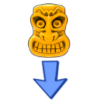
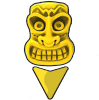
v0.184.5 - Indicador del totem mejorado
tanto el sprte como que no indique en la animacion del inicio

diff --git a/src/Facade/Render/RenderFacadeClover.cpp b/src/Facade/Render/RenderFacadeClover.cpp
@@ -1442,7 +1442,7 @@ void RenderFacadeClover::FacadeDraw() const{
 
 }
 
-void RenderFacadeClover::FacadeDrawHUD(Entity* car, ManCar* manCars, Entity* globalClock, ManHUDEvent* manHud, ManGameRules* manGR) {
+void RenderFacadeClover::FacadeDrawHUD(Entity* car, ManCar* manCars, Entity* globalClock, ManHUDEvent* manHud, ManGameRules* manGR, bool ingame) {
 
     if (!inputShowHUD) { return; }
 
@@ -1483,27 +1483,31 @@ void RenderFacadeClover::FacadeDrawHUD(Entity* car, ManCar* manCars, Entity* glo
     //                        //
     // *         *          * //
     ////////////////////////////
-    auto anchoSpriteTotem = 100.0;
-    auto altoSpriteTotem = 100.0;
-    auto posRefY = h/2 - (altoSpriteTotem/2);
-    auto frustum_ = device->GetActiveCamera()->GetFrustum();
-    bool backTotem  = frustum_.IsOutBack(manGR->GetPosTotem());
-    bool leftTotem  = frustum_.IsOutLeft(manGR->GetPosTotem());
-    bool rightTotem = frustum_.IsOutRight(manGR->GetPosTotem());
-
-    if(backTotem){
-        if(leftTotem && !rightTotem)
-            device->DrawImage2D(50, posRefY, 1.f, 0.1f, "media/hudTotemLeft.png", true);
-        else if(rightTotem && !leftTotem)
-            device->DrawImage2D( (w-50.0f) - anchoSpriteTotem, posRefY , 1.f, 0.1f, "media/hudTotemRight.png", true);
-        else
-            device->DrawImage2D(w/2 - (anchoSpriteTotem/2) , h - 50 - altoSpriteTotem, 1.f, 0.1f, "media/hudTotemBack.png", true);
-    }else{
-        if(leftTotem)
-            device->DrawImage2D(50, posRefY, 1.f, 0.1f, "media/hudTotemLeft.png", true);
-        else if(rightTotem)
-            device->DrawImage2D( (w-50.0f) - anchoSpriteTotem, posRefY , 1.f, 0.1f, "media/hudTotemRight.png", true);
+    if(ingame){
+        auto anchoSpriteTotem = 100.0;
+        auto altoSpriteTotem = 100.0;
+        auto posRefY = h/2 - (altoSpriteTotem/2);
+        auto frustum_ = device->GetActiveCamera()->GetFrustum();
+        bool backTotem  = frustum_.IsOutBack(manGR->GetPosTotem());
+        bool leftTotem  = frustum_.IsOutLeft(manGR->GetPosTotem());
+        bool rightTotem = frustum_.IsOutRight(manGR->GetPosTotem());
+    
+        if(backTotem){
+            if(leftTotem && !rightTotem)
+                device->DrawImage2D(50, posRefY, 1.f, 0.1f, "media/hudTotemLeft.png", true);
+            else if(rightTotem && !leftTotem)
+                device->DrawImage2D( (w-50.0f) - anchoSpriteTotem, posRefY , 1.f, 0.1f, "media/hudTotemRight.png", true);
+            else
+                device->DrawImage2D(w/2 - (anchoSpriteTotem/2) , h - 50 - altoSpriteTotem, 1.f, 0.1f, "media/hudTotemBack.png", true);
+        }else{
+            if(leftTotem)
+                device->DrawImage2D(50, posRefY, 1.f, 0.1f, "media/hudTotemLeft.png", true);
+            else if(rightTotem)
+                device->DrawImage2D( (w-50.0f) - anchoSpriteTotem, posRefY , 1.f, 0.1f, "media/hudTotemRight.png", true);
+        }
     }
+
+
 
     //CURRENT POWERUP
     if(!powerUpAnimation->GetFinished() && currentPowerUp != 0){

diff --git a/src/State/StateInGame.cpp b/src/State/StateInGame.cpp
@@ -468,7 +468,12 @@ void StateInGame::Render() {
     
     auto showHUD = renderEngine->FacadeCheckShowHUD();
     if (showHUD) {
-        renderEngine->FacadeDrawHUD(manCars->GetCar().get(), manCars.get(), manGameRules->GetGlobalClock().get(), manHudEvent.get(), manGameRules.get());   
+        if(currentUpdateState == UpdateState::GAME)
+            renderEngine->FacadeDrawHUD(manCars->GetCar().get(), manCars.get(), manGameRules->GetGlobalClock().get(), manHudEvent.get(), manGameRules.get(), true); 
+        else
+            renderEngine->FacadeDrawHUD(manCars->GetCar().get(), manCars.get(), manGameRules->GetGlobalClock().get(), manHudEvent.get(), manGameRules.get(), false); 
+        
+  
     }
     renderEngine->FacadeEndScene();
 }

diff --git a/src/Facade/Render/RenderFacadeIrrlicht.h b/src/Facade/Render/RenderFacadeIrrlicht.h
@@ -98,7 +98,7 @@ class RenderFacadeIrrlicht : public RenderFacade {
     bool FacadeCheckShowHUD() override { return true; };
 
     void FacadeUpdatePowerUpHUD(DataMap* d) override;
-    void FacadeDrawHUD(Entity* car, ManCar* manCars, Entity* globalClock, ManHUDEvent* manHud, ManGameRules* manGR) override;
+    void FacadeDrawHUD(Entity* car, ManCar* manCars, Entity* globalClock, ManHUDEvent* manHud, ManGameRules* manGR, bool ingame) override;
     void FacadeSuscribeEvents() override;
     void FacadeSuscribeEventsSettings() override;
     void FacadeAddPlates(Manager* manNamePlates) override;

diff --git a/src/Facade/Render/RenderFacadeClover.h b/src/Facade/Render/RenderFacadeClover.h
@@ -101,7 +101,7 @@ class RenderFacadeClover : public RenderFacade {
       bool FacadeCheckShowHUD() override;
 
       void FacadeUpdatePowerUpHUD(DataMap* d) override;
-      void FacadeDrawHUD(Entity* car, ManCar* manCars, Entity* globalClock, ManHUDEvent* manHud, ManGameRules* manGR) override;
+      void FacadeDrawHUD(Entity* car, ManCar* manCars, Entity* globalClock, ManHUDEvent* manHud, ManGameRules* manGR, bool ingame) override;
       void FacadeSuscribeEvents() override;
       void FacadeSuscribeEventsSettings() override;
       void FacadeAddPlates(Manager* manNamePlates) override;

diff --git a/src/Facade/Render/RenderFacade.h b/src/Facade/Render/RenderFacade.h
@@ -97,7 +97,7 @@ class RenderFacade {
 
     virtual void FacadeUpdatePowerUpHUD(DataMap* d) = 0;
     virtual void FacadeInitResources(mainCharacter character) = 0;
-    virtual void FacadeDrawHUD(Entity* car, ManCar* manCars, Entity* globalClock, ManHUDEvent*, ManGameRules*) = 0;
+    virtual void FacadeDrawHUD(Entity* car, ManCar* manCars, Entity* globalClock, ManHUDEvent*, ManGameRules*, bool ingame) = 0;
     virtual void FacadeSuscribeEvents() = 0;
     virtual void FacadeSuscribeEventsSettings() = 0;
     virtual void FacadeAddPlates(Manager* manNamePlates) = 0;

diff --git a/src/Facade/Render/RenderFacadeIrrlicht.cpp b/src/Facade/Render/RenderFacadeIrrlicht.cpp
@@ -193,7 +193,7 @@ void RenderFacadeIrrlicht::FacadeUpdatePowerUpHUD(DataMap* d) {
 
 
 
-void RenderFacadeIrrlicht::FacadeDrawHUD(Entity* car, ManCar* manCars, Entity* globalClock, ManHUDEvent* manHud, ManGameRules* manGR) {
+void RenderFacadeIrrlicht::FacadeDrawHUD(Entity* car, ManCar* manCars, Entity* globalClock, ManHUDEvent* manHud, ManGameRules* manGR, bool ingame) {
 
     //Voy a actualizar aqui las posiciones donde van porque es el unico sitio donde tengo ambos tipos de coches
 
